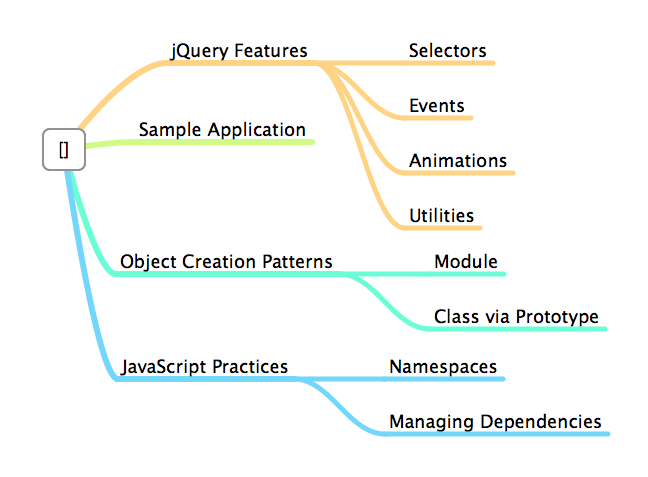
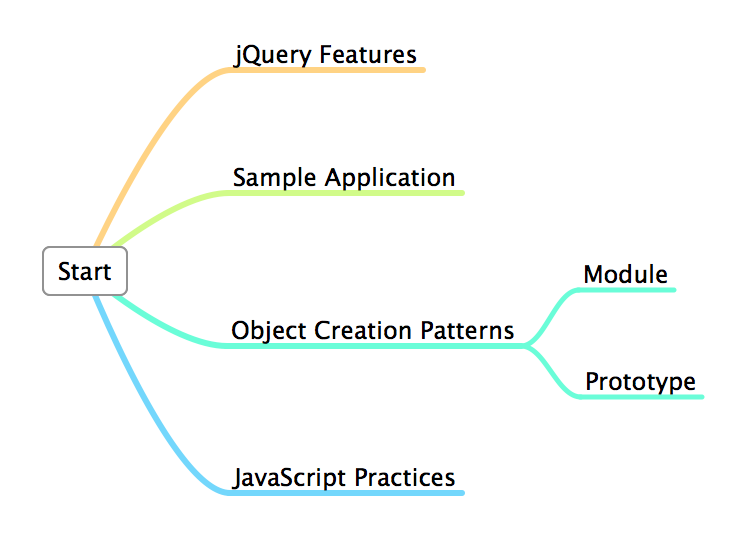
updated slides

Changed region(s): [[0.0309, 0.0881, 0.9568, 0.8512], [0.2469, 0.8512, 0.9568, 0.9392]]

diff --git a/presentation/deck.js/introduction/index.html b/presentation/deck.js/introduction/index.html
@@ -61,7 +61,7 @@
 </section>
 
 <section class="slide" id="presentation-journey">
-  <h2>Durned Journey Slide</h2>
+  <h2>Mindmap</h2>
   <div>
     <img src="../images/journey.png" alt="jQuery">
   </div>
@@ -74,7 +74,7 @@
 </section>
 
 <section class="slide" id="jquery-dom-traversal">
-	<h2>DOM Selectors with Traversal</h2>
+	<h2>DOM Traversals</h2>
 	<p>Simple HTML document selectors</p>
 	<div id="code" class="code" name="code" mode="javascript" style="display: none;">var allDivs = $('div');
 
@@ -150,33 +150,26 @@ $.ajax({
 });</div>
 </section>
 
-<section class="slide" id="missing-features">
-	<h2>What else do we need?</h2>
-	<ul>
-		<li class="slide" id="missing-features-extensible">
-			<h3>Extensibility</h3>
-			<p>Low cost of adding features (or removing)</p>
-		</li>
-		<li class="slide" id="missing-features-reusability">
-			<h3>Reusability</h3>
-			<p>Code we can easily share and re-use</p>
-		</li>
-		<li class="slide" id="missing-features-reliability">
-			<h3>Reliability</h3>
-			<p>Self reliant code with well managed dependencies</p>
-		</li>
-	</ul>
-</section>
-
 <section class="slide" id="introduce-application">
 	<h2>Sample Application</h2>
 	<h1>Photo Gallery</h1>
 </section>
 
-<section class="slide" id="example-project">
-	<h2>Demo Application</h2>
-  <div style="margin: 0 auto;">
-		<img src="../images/mockup.png" alt="mockup">
+<section class="slide" id="project-requirements">
+  <h2>Demo Application</h2>
+  <ul>
+    <li class="slide" id="project-requirements-display">
+      <h3>Display Photos</h3>
+    </li>
+    <li class="slide" id="project-requirements-pagination">
+      <h3>Pagination</h3>
+    </li>
+    <li class="slide" id="project-requirements-filtering">
+      <h3>Filter by tag</h3>
+    </li>
+  </ul>
+  <div style="margin: 0 auto; width: 50%;">
+    <img src="../images/mockup.png" alt="mockup">
   </div>
 </section>
 
@@ -186,29 +179,31 @@ $.ajax({
 	  This is the starting HTML for our gallery
 	</p>
 	<div>
-  	<textarea type="text/html" class="code" mode="text/html" style="display: none;"><!DOCTYPE html>
-<html lang="en">
-  <head>
-    <title>Photo Gallery - v1</title>
-  </head>
-  <body>
-    <div class="container">
-      <header class="jumbotron masthead">
-        <h1>Photo Gallery 1.0</h1>
-      </header>      
-      <div id="photos" class="photos"></div>
-    </div>
-    <script id="content-template" type="example/template">
-      <div class="photo">
-        <figure>
-          <img src="{{url}}" alt="{{title}}" />
-          <figcaption>{{caption}}</figcaption>
-        </figure>
-        <p>Tags: {{tags}}</p>
-      </div>
-    </script>
-  </body>
-</html></textarea>
+  	<textarea type="text/html" class="code" mode="text/html" style="display: none;"><div id="photos" class="photos">
+</div>
+
+
+<script id="template" type="example/template">
+
+  <div class="photo">
+    <figure>
+      <img src="{{url}}" alt="{{title}}" />
+      <figcaption>{{caption}}</figcaption>
+    </figure>
+    <p>Tags: {{tags}}</p>
+  </div>
+
+</script></textarea>
+  </div>
+  <div style="padding-top: 20px;">
+    <p>
+      This is our client side template code
+    </p>
+  </div>
+  <div>
+    <textarea type="text/html" class="code" mode="text/javascript" style="display: none;">var render = function(photo) {
+  return this.template.replace(/{{title}}/ig, photo.title);
+};</textarea>
   </div>
 </section>
 
@@ -240,6 +235,24 @@ showPictures();</textarea>
 </div>
 </section>
 
+<section class="slide" id="missing-features">
+  <h2>What's missing?</h2>
+  <ul>
+    <li class="slide" id="missing-features-extensible">
+      <h3>Extensibility</h3>
+      <p>Low cost of adding features (or removing)</p>
+    </li>
+    <li class="slide" id="missing-features-reusability">
+      <h3>Reusability</h3>
+      <p>Code we can easily share and re-use</p>
+    </li>
+    <li class="slide" id="missing-features-reliability">
+      <h3>Reliability</h3>
+      <p>Self reliant code with well managed dependencies</p>
+    </li>
+  </ul>
+</section>
+
 <section class="slide" id="javascript-prototypal">
 	<h2>Prototypal Inheritance</h2>
 	<ul>
@@ -256,7 +269,7 @@ showPictures();</textarea>
 </section>
 
 <section class="slide" id="javascript-prototypal-inheritance">
-	<h2>How exactly does that work?</h2>
+	<h2>Javascript Prototypes</h2>
 	<table class="table table-striped table-bordered table-condensed">
 		<thead>
 			<tr>
@@ -300,7 +313,7 @@ showPictures();</textarea>
 <section class="slide" id="javascript-prototypal-chaining">
 	<h2>Prototype Chaining</h2>
 	<div>
-  	<textarea type="text/html" class="code" mode="text/javascript" style="display: none;">var person = { name: "John" }
+  	<textarea type="text/html" class="code" mode="text/javascript" style="display: none;">var person = { name: "John" } // typeof Object
 person.lastName;</textarea>
 	</div>
 	<div>
@@ -331,6 +344,13 @@ function getProperty(obj, prop)
 </div>
 </section>
 
+<section class="slide" id="presentation-closing">
+  <h2>What was covered</h2>
+  <div>
+    <img src="../images/journey.png" alt="jQuery">
+  </div>
+</section>
+
 <section class="slide" id="end-slide">
 	<div style="text-align: center;"><h2>References</h2></div>
 	<ul>
@@ -344,7 +364,7 @@ function getProperty(obj, prop)
 			<h3>Keith Peters - <a href="http://www.adobe.com/devnet/html5/articles/javascript-object-creation.html">JavaScript Object Creation</a></h3>
 		</li>
 		<li>
-			<h3>Other good sources <a href="http://javascript.info/">http://javascript.info/</a> and <a href="http://bonsaiden.github.com/JavaScript-Garden/">http://bonsaiden.github.com/JavaScript-Garden/</a></h3>
+			<h3>Other sources <a href="http://javascript.info/">http://javascript.info/</a> and <a href="http://bonsaiden.github.com/JavaScript-Garden/">http://bonsaiden.github.com/JavaScript-Garden/</a></h3>
 		</li>
 	</ul>
 </section>

diff --git a/presentation/deck.js/themes/style/default.css b/presentation/deck.js/themes/style/default.css
@@ -5,7 +5,7 @@
   font-size: 5em;
 }
 .slide h2 {
-  font-size: 4em;
+  font-size: 3em;
 }
 .slide h3 {
   font-size: 2.5em;
